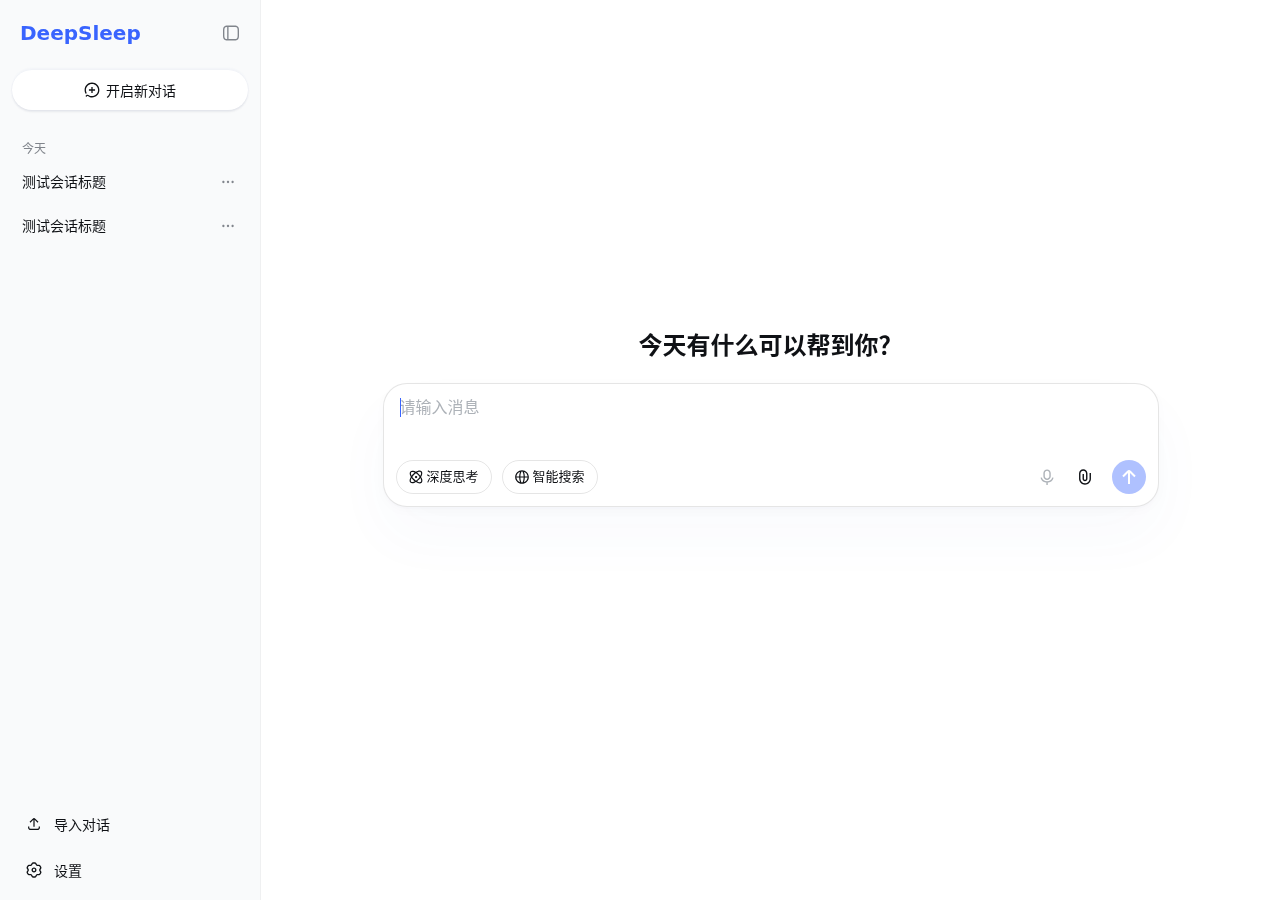
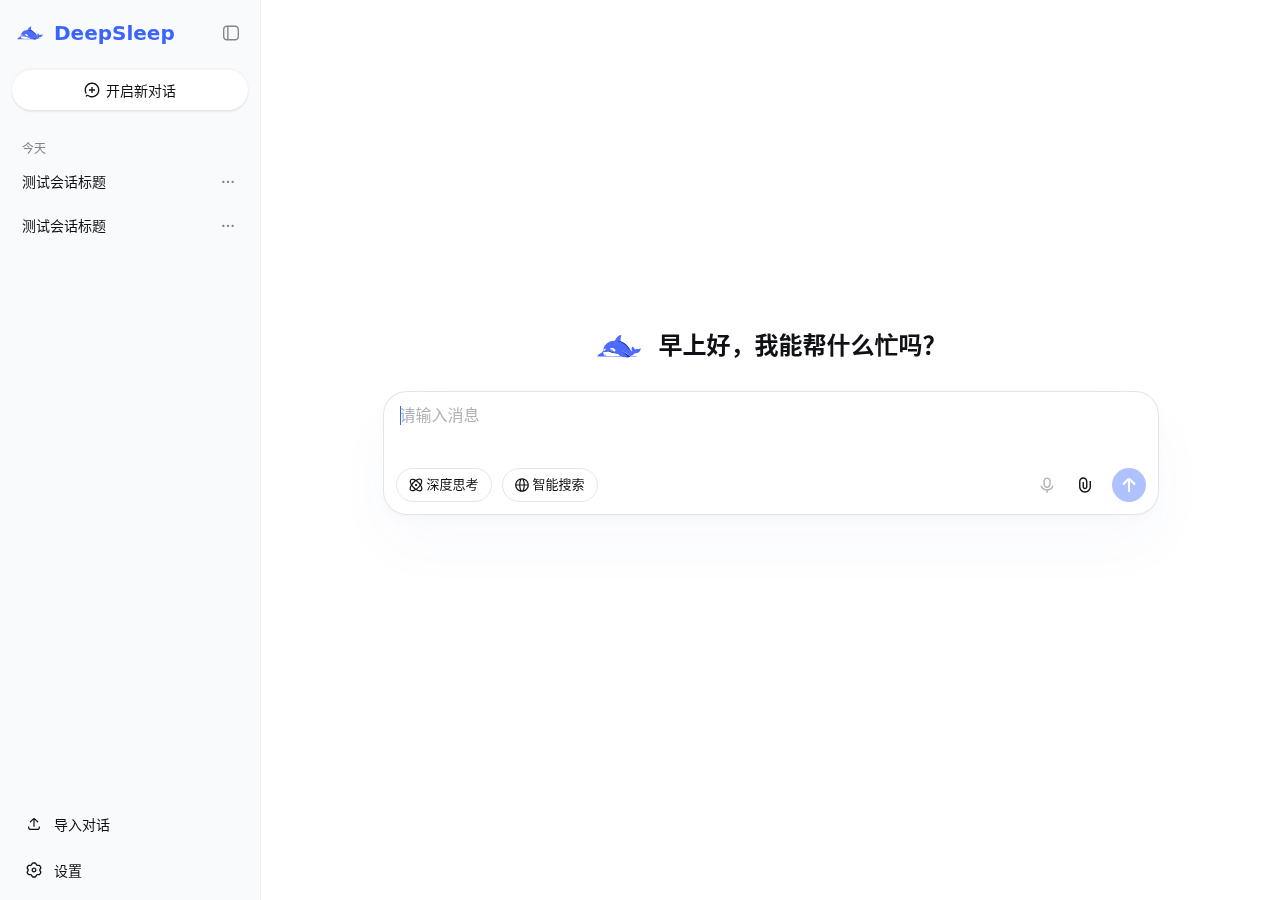
brand: 新对话页与侧边栏顶部加入 DeepSleep 图标，问候语按时段变化

diff --git a/web/src/components/session/Welcome.tsx b/web/src/components/session/Welcome.tsx
@@ -1,10 +1,23 @@
 import { useIsMobile } from '../../app/viewport.js'
 import { useTranslate } from '../../i18n/index.js'
+import type { TranslationKey } from '../../i18n/index.js'
 import { ChatInput } from '../chatInput/ChatInput.js'
 import { MobileHeader } from './MobileHeader.js'
 import styles from './Welcome.module.css'
 
-/** 新对话：问候语 + 输入框。桌面端居中；移动端输入框吸底 */
+/** 按当前时段选择问候语，与网页端一致 */
+const greetingKey = (): TranslationKey => {
+  const hour = new Date().getHours()
+  if (hour >= 18 || hour < 5) {
+    return 'welcomeGreetingEvening'
+  }
+  if (hour < 12) {
+    return 'welcomeGreetingMorning'
+  }
+  return 'welcomeGreetingAfternoon'
+}
+
+/** 新对话：图标 + 时段问候语 + 输入框。桌面端居中；移动端输入框吸底 */
 export const Welcome = () => {
   const t = useTranslate()
   const isMobile = useIsMobile()
@@ -12,7 +25,12 @@ export const Welcome = () => {
     <div className={styles.container}>
       {isMobile ? <MobileHeader /> : null}
       <div className={styles.welcome}>
-        <div className={styles.greeting}>{t('welcomeMessageChat250808')}</div>
+        <div className={styles.greeting}>
+          <img className={styles.greetingLogo} src="assets/favicon.svg" alt="" width={48} height={48} />
+          <span className={styles.greetingText}>
+            {t('welcomeGreetingLine', { greeting: t(greetingKey()) })}
+          </span>
+        </div>
         <ChatInput sessionId={null} />
         {isMobile ? <div className={styles.caveat}>{t('contentCaveat')}</div> : null}
       </div>

diff --git a/web/src/components/sider/Sider.tsx b/web/src/components/sider/Sider.tsx
@@ -58,7 +58,16 @@ export const Sider = ({ mobile = false }: { mobile?: boolean }) => {
   return (
     <div className={clsx(styles.sider, mobile && styles.mobile)}>
       <div className={styles.top}>
-        <div className={styles.appName}>{t('appName')}</div>
+        <div className={styles.brand}>
+          <img
+            className={styles.appLogo}
+            src="assets/favicon.svg"
+            alt=""
+            width={28}
+            height={28}
+          />
+          <div className={styles.appName}>{t('appName')}</div>
+        </div>
         <IconButton
           size="m"
           icon={<IconPanelLeftOutline16 />}

diff --git a/web/src/components/session/Welcome.module.css b/web/src/components/session/Welcome.module.css
@@ -20,6 +20,7 @@
   display: flex;
   align-items: center;
   justify-content: center;
+  gap: 16px;
   margin-bottom: 21px;
   font-size: 24px;
   line-height: 32px;
@@ -28,11 +29,28 @@
   color: var(--dsw-alias-label-primary);
 }
 
+.greetingLogo {
+  display: block;
+  flex-shrink: 0;
+  width: 48px;
+  height: 48px;
+}
+
+.greetingText {
+  min-width: 0;
+}
+
 @media (max-width: 439px) {
   .greeting {
+    gap: 10px;
     font-size: 20px;
     line-height: 28px;
     font-weight: 500;
+  }
+
+  .greetingLogo {
+    width: 40px;
+    height: 40px;
   }
 }
 

diff --git a/web/src/i18n/en.ts b/web/src/i18n/en.ts
@@ -2,6 +2,10 @@ import type { zh } from './zh.js'
 
 export const en = {
   welcomeMessageChat250808: 'How can I help you?',
+  welcomeGreetingMorning: 'Good morning',
+  welcomeGreetingAfternoon: 'Good afternoon',
+  welcomeGreetingEvening: 'Good evening',
+  welcomeGreetingLine: '{greeting}, how can I help?',
   contentCaveat: 'AI-generated, for reference only',
   expandSiderbarButton: 'Open sidebar',
   collapseSiderbarButton: 'Close sidebar',

diff --git a/web/src/i18n/zh.ts b/web/src/i18n/zh.ts
@@ -1,5 +1,9 @@
 export const zh = {
   welcomeMessageChat250808: '今天有什么可以帮到你？',
+  welcomeGreetingMorning: '早上好',
+  welcomeGreetingAfternoon: '下午好',
+  welcomeGreetingEvening: '晚上好',
+  welcomeGreetingLine: '{greeting}，我能帮什么忙吗？',
   contentCaveat: '内容由 AI 生成，请仔细甄别',
   expandSiderbarButton: '打开边栏',
   collapseSiderbarButton: '收起边栏',

diff --git a/web/src/components/sider/Sider.module.css b/web/src/components/sider/Sider.module.css
@@ -22,9 +22,23 @@
   flex-shrink: 0;
 }
 
+.brand {
+  display: flex;
+  align-items: center;
+  gap: 8px;
+  min-width: 0;
+}
+
+.appLogo {
+  display: block;
+  flex-shrink: 0;
+  width: 28px;
+  height: 28px;
+}
+
 .appName {
   min-width: 0;
-  padding-left: 4px;
+  padding-left: 2px;
   overflow: hidden;
   font-size: 20px;
   line-height: 22px;
